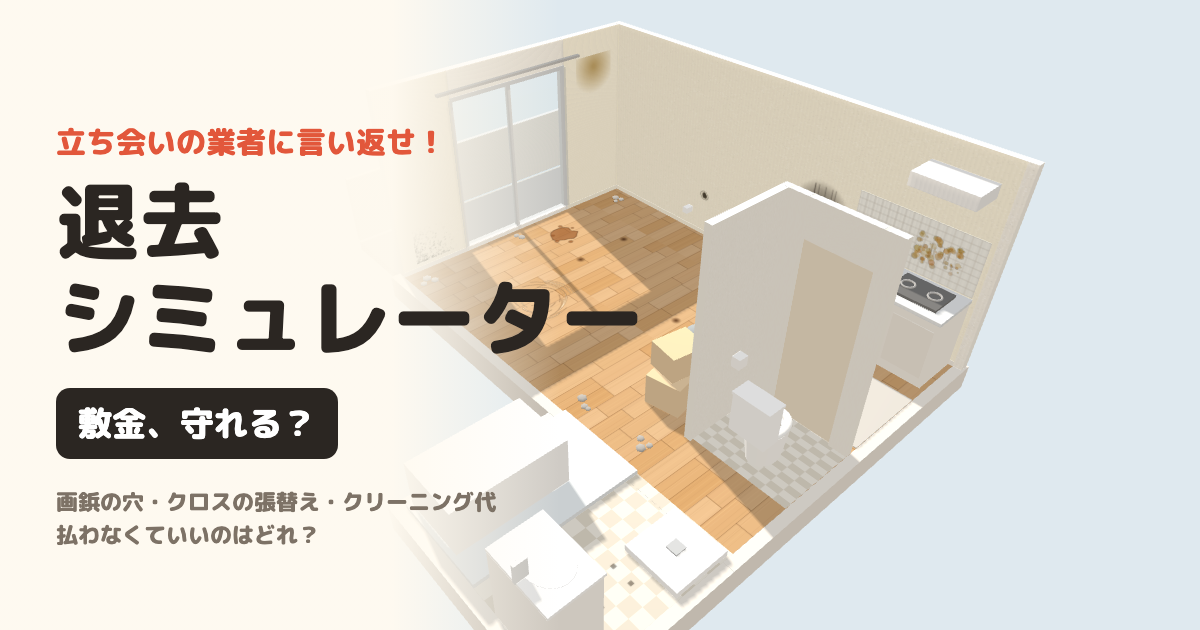
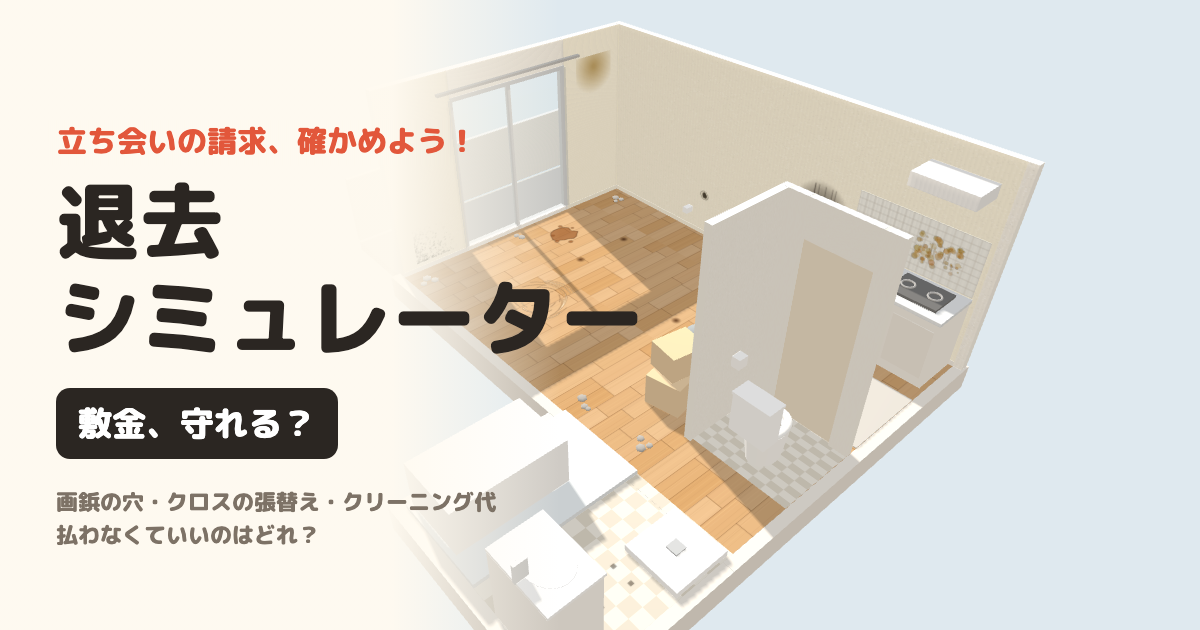
退去シミュレーター: 「言い返す」をおだやかな表現に変更（画面の文言・説明文・OGP画像）
Claude-Session: https://claude.ai/code/session_01222Tea3fdNZQFLZYtUcVxQ

Changed region(s): [[0.0308, 0.181, 0.4008, 0.2714]]

diff --git a/docs/taikyo/index.html b/docs/taikyo/index.html
@@ -4,10 +4,10 @@
 <meta charset="utf-8">
 <meta name="viewport" content="width=device-width, initial-scale=1, maximum-scale=1, user-scalable=no, viewport-fit=cover">
 <title>退去シミュレーター</title>
-<meta name="description" content="退去の日の午前中に部屋を片づけ、立ち会いの業者の請求に言い返して敷金を守る3Dゲーム。国交省のガイドラインに沿って「払わなくていいもの」が分かる。">
+<meta name="description" content="退去の日の午前中に部屋を片づけ、立ち会いで業者の請求を一つずつ確かめて敷金を守る3Dゲーム。国交省のガイドラインに沿って「払わなくていいもの」が分かる。">
 <meta property="og:type" content="website">
 <meta property="og:title" content="退去シミュレーター｜敷金、守れる？">
-<meta property="og:description" content="立ち会いの業者の請求に言い返して敷金を守る3Dゲーム。画鋲の穴、クロスの張替え、ハウスクリーニング代…払わなくていいのはどれ？">
+<meta property="og:description" content="立ち会いで業者の請求を確かめて敷金を守る3Dゲーム。画鋲の穴、クロスの張替え、ハウスクリーニング代…払わなくていいのはどれ？">
 <meta property="og:url" content="https://texia-inc.github.io/bukiya/taikyo/">
 <meta property="og:image" content="https://texia-inc.github.io/bukiya/taikyo/ogp.png">
 <meta name="twitter:card" content="summary_large_image">
@@ -161,7 +161,7 @@ details.real summary{cursor:pointer;font-size:12px;color:var(--blue);font-weight
 <div id="title" class="overlay">
   <div class="panel">
     <div class="logo">退去シミュレーター<small>〜 敷金を守りぬけ 〜</small></div>
-    <div class="tag"><b>入居者として</b>：午前中に部屋を片づけ、立ち会いで不当な請求に言い返して敷金を取り戻す。<br><b>業者として</b>：退去した部屋を点検して見積もりを作り、入居者に説明する。取りすぎても取らなすぎてもダメ。</div>
+    <div class="tag"><b>入居者として</b>：午前中に部屋を片づけ、立ち会いで請求を確かめ、払わなくていいものは根拠を示して伝えて、敷金を取り戻す。<br><b>業者として</b>：退去した部屋を点検して見積もりを作り、入居者に説明する。取りすぎても取らなすぎてもダメ。</div>
     <div class="center" style="margin:0 0 10px"><button class="btn primary" id="dailyBtn" type="button" style="font-size:17px;padding:10px 20px;background:#2f8f5b"></button></div>
     <div class="center btns" style="justify-content:center"><button class="btn primary" id="startBtn" type="button" style="font-size:17px;padding:10px 20px">入居者として（ランダム）</button><button class="btn" id="startAgentBtn" type="button" style="font-size:17px;padding:10px 20px;background:#2f4a6b;color:#fff">業者として</button></div>
     <div class="center" id="titleRec" style="font-size:13px;color:#7d7266;margin-top:10px;line-height:1.7"></div>
@@ -1576,7 +1576,7 @@ function renderDocs() {
       <li><b>入居したとき</b>：もとからある傷や汚れを日付入りの写真に撮り、チェック表にして管理会社に出しておく。</li>
       <li><b>退去の前</b>：契約書の特約（クリーニング代など）を確認。掃除とゴミ出しは済ませる。自分で補修するなら目立たない所で試してから。</li>
       <li><b>入居中</b>：設備が壊れたら、すぐ管理会社に連絡して記録を残す。黙って放っておくと、広がった被害は借主の負担になる。入居時に払った費用（エアコンクリーニングなど）の領収書もとっておく。</li>
-      <li><b>立ち会いのとき</b>：立ち会いは法律上の義務ではないが、出ないと入居前の傷も言い返せない。その場で精算書にサインせず、「どこを・何㎡・単価いくら」の明細をもらう。決まったことはメモしておく。</li>
+      <li><b>立ち会いのとき</b>：立ち会いは法律上の義務ではないが、出ないと入居前の傷も説明できない。その場で精算書にサインせず、「どこを・何㎡・単価いくら」の明細をもらう。決まったことはメモしておく。</li>
       <li><b>ごまかさない</b>：傷を隠したり「入居前からあった」と嘘をついたりすると、ほかの言い分も信じてもらえなくなる。やったことは正直に話し、範囲や年数で交渉する。</li>
       <li><b>貼る物・DIY</b>：「はがせる」と書いてあるフックや壁紙でも、壁紙を傷めることがある。突っ張り棒には保護パッドを。ペット不可の部屋では、預かるのもNG。</li>
       <li><b>後日の請求書</b>：立ち会いのメモと見くらべる。立ち会いで言われなかった項目や、金額が増えている所があれば連絡する。</li>
@@ -1999,7 +1999,7 @@ function tenantShareText(rank, firstTotal, total, refund, extra, over) {
   if (S.skipped) return `退去シミュレーターで立ち会いをサボったら、業者の言い値で ${yen(total)} 取られた😇 ${over ? `払いすぎ ${yen(over)}。` : ''}立ち会い、ちゃんと出ようね…`;
   if (rank === 'S') return `退去シミュレーターでランクS🏆 ${crook}業者の請求 ${yen(firstTotal)} を ${yen(total)} まで減らして、${money}！ あなたは敷金を守れる？`;
   if (rank === 'A' || rank === 'B') return `退去シミュレーターでランク${rank}。${crook}業者の請求 ${yen(firstTotal)} を ${yen(total)} まで減らした…けど${over ? `、まだ ${yen(over)} 払いすぎてたらしい` : '、掃除しておけばもっと減らせた'}。あなたは何円守れる？`;
-  return `退去シミュレーターでランク${rank}😇 ${crook}業者の言いなりで ${yen(over)} も払いすぎた…。立ち会いで言い返せる自信ある？`;
+  return `退去シミュレーターでランク${rank}😇 ${crook}請求をそのまま受け入れて、${yen(over)} も払いすぎた…。立ち会いで請求を確かめられる自信ある？`;
 }
 
 // ---------- 答え合わせ ----------
@@ -2009,12 +2009,12 @@ const sayOf = (l, k) => l.paper ? ({ normal: '貸主の負担では？', detail:
 function pathText(l) {
   const q = l.path.map(k => `「${sayOf(l, k)}」`).join(' → ');
   if (l.fair === 0) return q ? `${q}と言えば0円になる。` : '請求に応じる必要はない。';
-  return q ? `${q}と言い返して、残りの ${yen(l.fair)} は認める。` : `借主の負担で、金額も妥当。認めるのが正解。`;
+  return q ? `${q}と伝えて、残りの ${yen(l.fair)} は認める。` : `借主の負担で、金額も妥当。認めるのが正解。`;
 }
 function answerHTML(l) {
   const diff = l.final.amt - l.fair, ok = diff <= 0;
   const [kl, kc] = KIND[l.kind] || KIND.tenant;
-  const mv = l.absent ? '立ち会わなかったので、言い返せなかった' : l.moves.length ? l.moves.map(m => m.k === 'accept' ? '認めた' : `${sayOf(l, m.k)}<span class="${m.ok ? 'o' : 'x'}">${m.ok ? '✓' : '✗'}</span>`).join(' → ') : '（請求が0円になった）';
+  const mv = l.absent ? '立ち会わなかったので、その場で説明できなかった' : l.moves.length ? l.moves.map(m => m.k === 'accept' ? '認めた' : `${sayOf(l, m.k)}<span class="${m.ok ? 'o' : 'x'}">${m.ok ? '✓' : '✗'}</span>`).join(' → ') : '（請求が0円になった）';
   const prep = [l.clean ? `準備で「${l.clean.label}」（${l.clean.t}分）をしていれば、請求されなかった。` : l.patchFail ? 'パテ埋めに失敗して、かえって目立ってしまった。' : '',
     l.hid ? 'カレンダーで隠していたのがバレて、信用が下がった。準備のうちにはがして見せておけば、下がらなかった。' : '',
     l.moves.some(m => m.lie) ? '「入居時からあった」とごまかしてバレ、信用が大きく下がった。やったことは正直に話すほうが、ほかの言い分も通りやすい。' : ''].filter(Boolean).join(' ');
@@ -2035,7 +2035,7 @@ function summaryHTML(over) {
   const left = S.log.filter(l => l.clean).reduce((a, l) => a + l.final.amt, 0);
   return `<div class="sum">
     <div>🧹 <b>準備で防いだ請求 ${yen(saved)}</b>${cleaned.length ? '（' + cleaned.map(c => c.name).join('、') + '）' : '（なし）'}${S.vacuumed ? '。掃除機もかけた' : '。掃除機はかけなかった'}</div>
-    <div>🗣 <b>言い返して減らした ${yen(cut)}</b></div>
+    <div>🗣 <b>話し合いで減らした ${yen(cut)}</b></div>
     <div>💸 <b style="color:${over ? '#e2573b' : '#2f8f5b'}">払いすぎ ${yen(over)}</b>${over ? '（下の答え合わせで ✗ の所）' : '（なし！）'}</div>
     ${left ? `<div>🧽 掃除すれば防げた請求 ${yen(left)}</div>` : ''}
   </div>`;
@@ -2062,7 +2062,7 @@ function showResult() {
   let total = S.log.reduce((a, l) => a + l.final.amt, 0) + (S.signed ? 0 : S.billExtra || 0);
   const over = S.log.reduce((a, l) => a + Math.max(0, l.final.amt - l.fair), 0) + (S.signed ? 0 : S.billExtra || 0);
   let after = '';
-  if (S.skipped) after = '立ち会わなかったので、入居前の傷や普通の傷みも言い返せないまま精算された。';
+  if (S.skipped) after = '立ち会わなかったので、入居前の傷や普通の傷みも説明できないまま精算された。';
   else if (!S.signed && S.boss === 'crook' && over > 0) {
     const back = Math.round(over * 0.3 / 100) * 100; total -= back;
     after = `持ち帰って明細を確かめ、消費生活センターに相談した。不当だった分のうち ${yen(back)} が戻ってきた。`;

diff --git a/docs/index.html b/docs/index.html
@@ -28,7 +28,7 @@ a.card span{font-size:13px;opacity:.85}
   <a class="card" href="./umimachi/"><b>UMIMACHI SKATE 海街スケート</b><span>海へ下る坂の町をスケボーで散歩。商店街でおつかい、迷子の猫さがし、景色の写真集め（3D）</span></a>
   <a class="card" href="./canyon-bomb/"><b>CANYON BOMB キャニオン・ボム</b><span>峡谷・森・街・海岸をスケートボードで一気に下るダウンヒルレース（3D）</span></a>
   <a class="card" href="./kaiju-strike/"><b>KAIJU STRIKE 怪獣迎撃</b><span>湾岸に上陸する巨大怪獣を、砲台か巨大ロボットのコックピットから迎え撃つ縦画面の3Dアクション</span></a>
-  <a class="card" href="./taikyo/"><b>TAIKYO 退去シミュレーター</b><span>退去の日の午前中に部屋を片づけ、立ち会いの業者の請求に言い返して敷金を守る。実際の直し方も分かる（3D）</span></a>
+  <a class="card" href="./taikyo/"><b>TAIKYO 退去シミュレーター</b><span>退去の日の午前中に部屋を片づけ、立ち会いで業者の請求を一つずつ確かめて敷金を守る。実際の直し方も分かる（3D）</span></a>
   <a class="card" href="./wanabeya/"><b>WANABEYA ワナ部屋からの脱出</b><span>斜め見下ろし3Dの部屋で、仕掛けられたドッキリを回避して脱出する全10ステージの謎解き</span></a>
 </main>
 </body>
